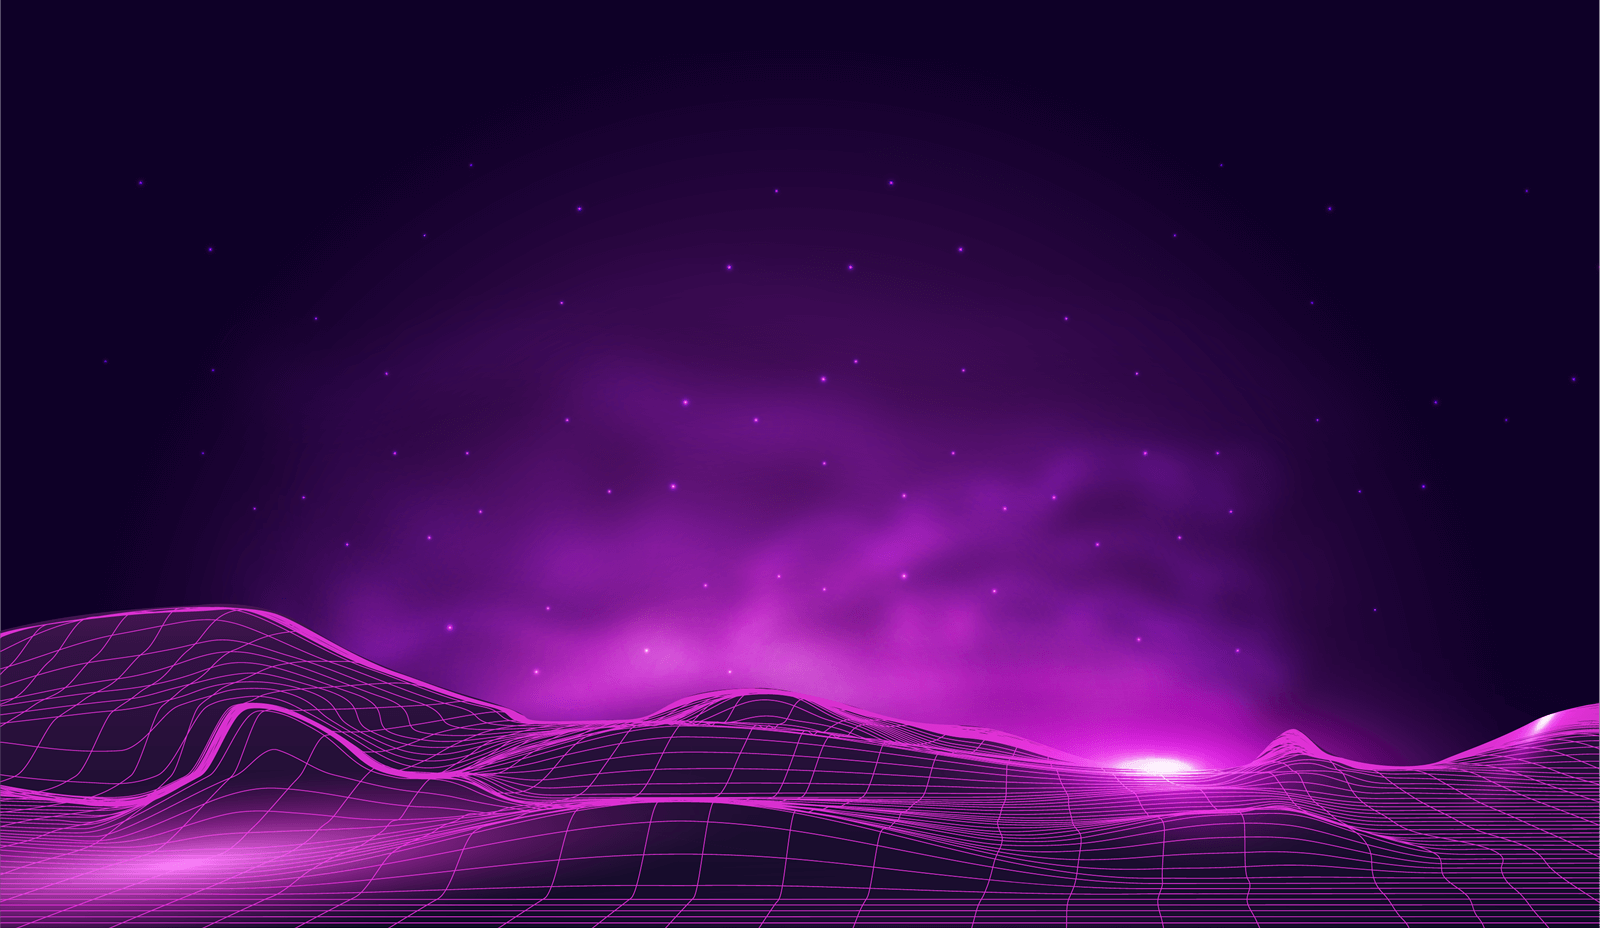
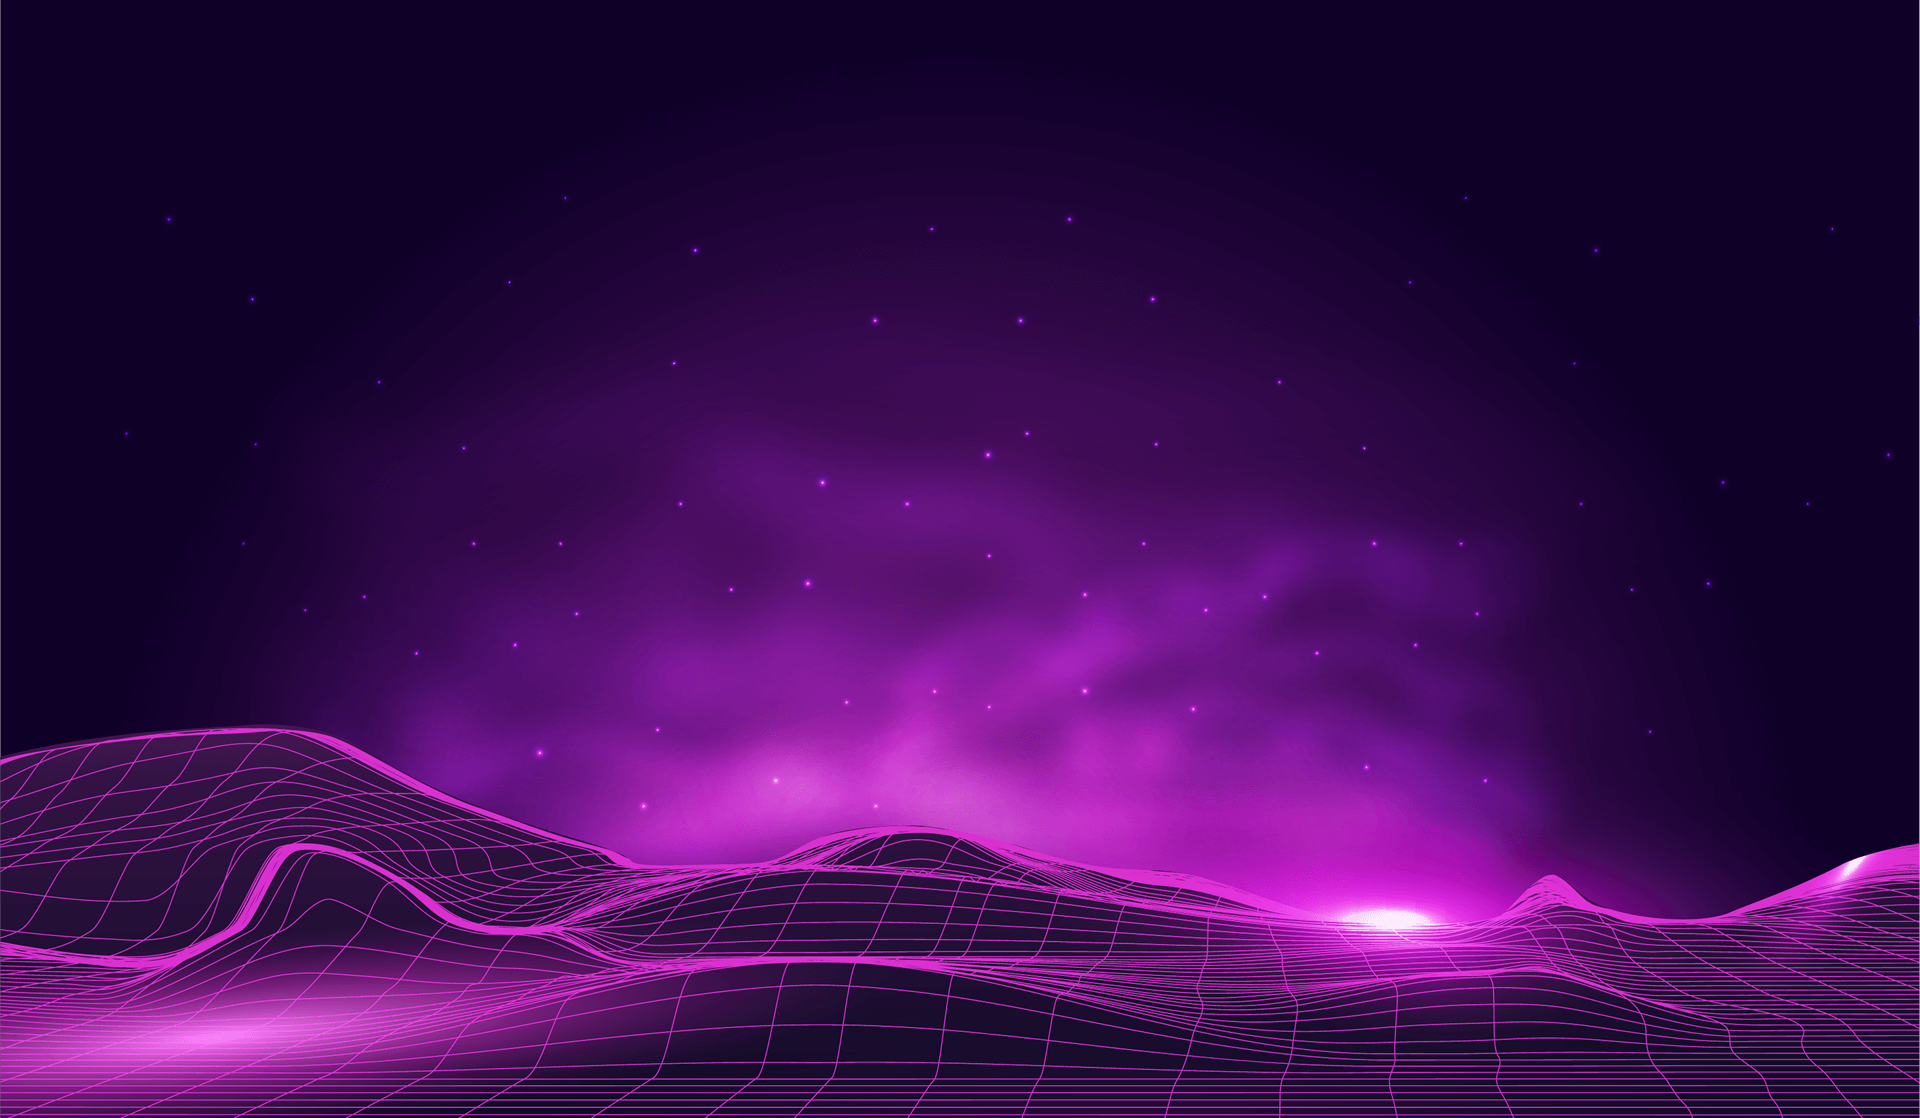
global stats, partners

Changed region(s): [[0.0, 0.625, 1.0, 1.0]]

diff --git a/css/styles.css b/css/styles.css
@@ -24,10 +24,10 @@ html:after{width:395px;height:343px;right:0;
 	background-size:100%;
 }
 body{color:#99a1b3;font-family: 'Space Mono', monospace;font-size:1.125rem;
-	min-height:928px;line-height:1.5;
-	background:url("../images/footer.png") center bottom no-repeat #0E0027;
-	-webkit-background-size:cover;
-	background-size:cover;
+	min-height:1118px;line-height:1.5;background-color:#0E0027;
+}
+body:after{content:"";position:absolute;left:0;bottom:0;width:100%;
+	background:url("../images/footer.png") center bottom no-repeat;height:100%;
 }
 
 h1, h2, h3, h4{font-weight:normal;}
@@ -43,7 +43,7 @@ img{max-width:100%;width:100%;height:auto;padding:0;margin:0;border:none;display
 .clearfloat:after{clear:both;}
 .wrapper{width:100%;padding:0 70px;margin:0 auto;}
 .wrapper.no-pad-right{padding-right:0;}
-.content-wrapper{padding:60px 0;}
+.content-wrapper{padding:50px 0;}
 .content-wrapper.no-pad-top{padding-top:0;}
 .section-title{font-size:2.25rem;line-height:1.125;margin-bottom:1.5rem;color:#fff;
 	position:relative;padding-top:26px;
@@ -104,3 +104,45 @@ header .logo:hover{
 #welcome .big-title span{color:#FF07DF;}
 
 .home-slider{max-width:650px;}
+
+/*---------- GLOBAL STATS ----------*/
+.global-stats{display:flex;}
+.global-stats .block{margin:30px 0 0 30px;color:#fff;min-height:226px;display:flex;
+	flex-direction:column;background-color:#FF7D37;justify-content:center;padding:20px;
+	flex-basis:100%;
+	-webkit-box-shadow: 0 30px 60px rgba(0,0,0,0.2);
+	box-shadow: 0 30px 60px rgba(0,0,0,0.2);
+	-webkit-transition: all 0.4s cubic-bezier(0.165, 0.84, 0.44, 1);
+	transition: all 0.4s cubic-bezier(0.165, 0.84, 0.44, 1);
+}
+.global-stats .block:first-child{margin-left:0;}
+.global-stats .block:nth-child(1){
+	background:#FF7D37;
+	background: -webkit-linear-gradient(76deg, rgba(255,192,106,1) 0%, rgba(255,125,55,1) 100%);
+	background: -o-linear-gradient(76deg, rgba(255,192,106,1) 0%, rgba(255,125,55,1) 100%);
+	background: linear-gradient(76deg, rgba(255,192,106,1) 0%, rgba(255,125,55,1) 100%);
+}
+.global-stats .block:nth-child(2){
+	background:#FF0D07;
+	background: -webkit-linear-gradient(76deg, rgba(255,96,7,1) 0%, rgba(255,13,7,1) 100%);
+	background: -o-linear-gradient(76deg, rgba(255,96,7,1) 0%, rgba(255,13,7,1) 100%);
+	background: linear-gradient(76deg, rgba(255,96,7,1) 0%, rgba(255,13,7,1) 100%);
+}
+.global-stats .block:nth-child(3){
+	background:#F20067;
+	background: -webkit-linear-gradient(76deg, rgba(255,81,124,1) 0%, rgba(242,0,103,1) 100%);
+	background: -o-linear-gradient(76deg, rgba(255,81,124,1) 0%, rgba(242,0,103,1) 100%);
+	background: linear-gradient(76deg, rgba(255,81,124,1) 0%, rgba(242,0,103,1) 100%);
+}
+.global-stats .block:nth-child(4){
+	background:#FB00DC;
+	background: -webkit-linear-gradient(76deg, rgba(255,91,235,1) 0%, rgba(251,0,220,1) 100%);
+	background: -o-linear-gradient(76deg, rgba(255,91,235,1) 0%, rgba(251,0,220,1) 100%);
+	background: linear-gradient(76deg, rgba(255,91,235,1) 0%, rgba(251,0,220,1) 100%);
+}
+.global-stats .value{display:block;font-weight:bold;font-size:48px;}
+.global-stats .label{display:block;font-size:18px;text-transform:uppercase;}
+.global-stats .block:hover{
+	-webkit-transform: scale(1.04, 1.04);
+	transform: scale(1.04, 1.04);
+}

diff --git a/index.html b/index.html
@@ -22,7 +22,7 @@
 <meta name="msapplication-TileImage" content="images/favicon/ms-icon-144x144.png">
 <meta name="theme-color" content="#5B4492">
 	
-<link href="https://fonts.googleapis.com/css?family=Space+Mono&display=swap" rel="stylesheet">
+<link href="https://fonts.googleapis.com/css?family=Space+Mono:400,700&display=swap" rel="stylesheet">
 <link rel="stylesheet" type="text/css" href="css/plugins.css" />
 <link rel="stylesheet" type="text/css" href="css/styles.css" />
 </head>
@@ -73,9 +73,46 @@
 	<section class="content-wrapper">
 		<div class="wrapper">
 			<h2 class="section-title">Global stats</h2>
+			
+			<div class="global-stats">
+				<div class="block">
+					<span class="value">61,956</span>
+					<span class="label">Challenge Completions</span>
+				</div>
+				<div class="block">
+					<span class="value">482,182</span>
+					<span class="label">Pull Requests Opened</span>
+				</div>
+				<div class="block">
+					<span class="value">154,466</span>
+					<span class="label">Participating Repositories</span>
+				</div>
+				<div class="block">
+					<span class="value">98,320</span>
+					<span class="label">Members Worldwide</span>
+				</div>
+			</div>
 		</div>
 	</section>
 	<!-- global-stats end -->
+	
+	<!-- partners -->
+	<section class="content-wrapper">
+		<div class="wrapper">
+			<h2 class="section-title">Our partners</h2>
+			
+			<div class="partners owl-carousel">
+				<img src="images/partners/partner1.png" width="153" height="153" alt="Cyber in Africa" />
+				<img src="images/partners/partner2.png" width="235" height="153" alt="Africa's Talking" />
+				<img src="images/partners/partner3.png" width="226" height="153" alt="BeeSafe" />
+				<img src="images/partners/partner4.png" width="201" height="153" alt="hackerone" />
+				<img src="images/partners/partner5.png" width="257" height="153" alt="Gebeya" />
+				<img src="images/partners/partner6.png" width="257" height="153" alt="akira chix" />
+				<img src="images/partners/partner7.png" width="153" height="153" alt="Security Sidekick" />
+			</div>
+		</div>
+	</section>
+	<!-- partners end -->
 </main>
 <!-- main end -->
 	

diff --git a/js/main.js b/js/main.js
@@ -16,5 +16,19 @@ $(document).ready(function () {
 			animateOut: 'fadeOut'
 		});
 	}
+	
+	/*---------- PARTNERS SLIDER ----------*/
+	if($('.partners').length){
+		$(".partners").owlCarousel({
+			loop: true,
+			autoplay: true,
+			autoWidth:true,
+			responsiveRefreshRate:0,
+			nav: false,
+			dots: false,
+			autoplayHoverPause: true,
+			margin:90
+		});
+	}
 
 }) //End of document ready
